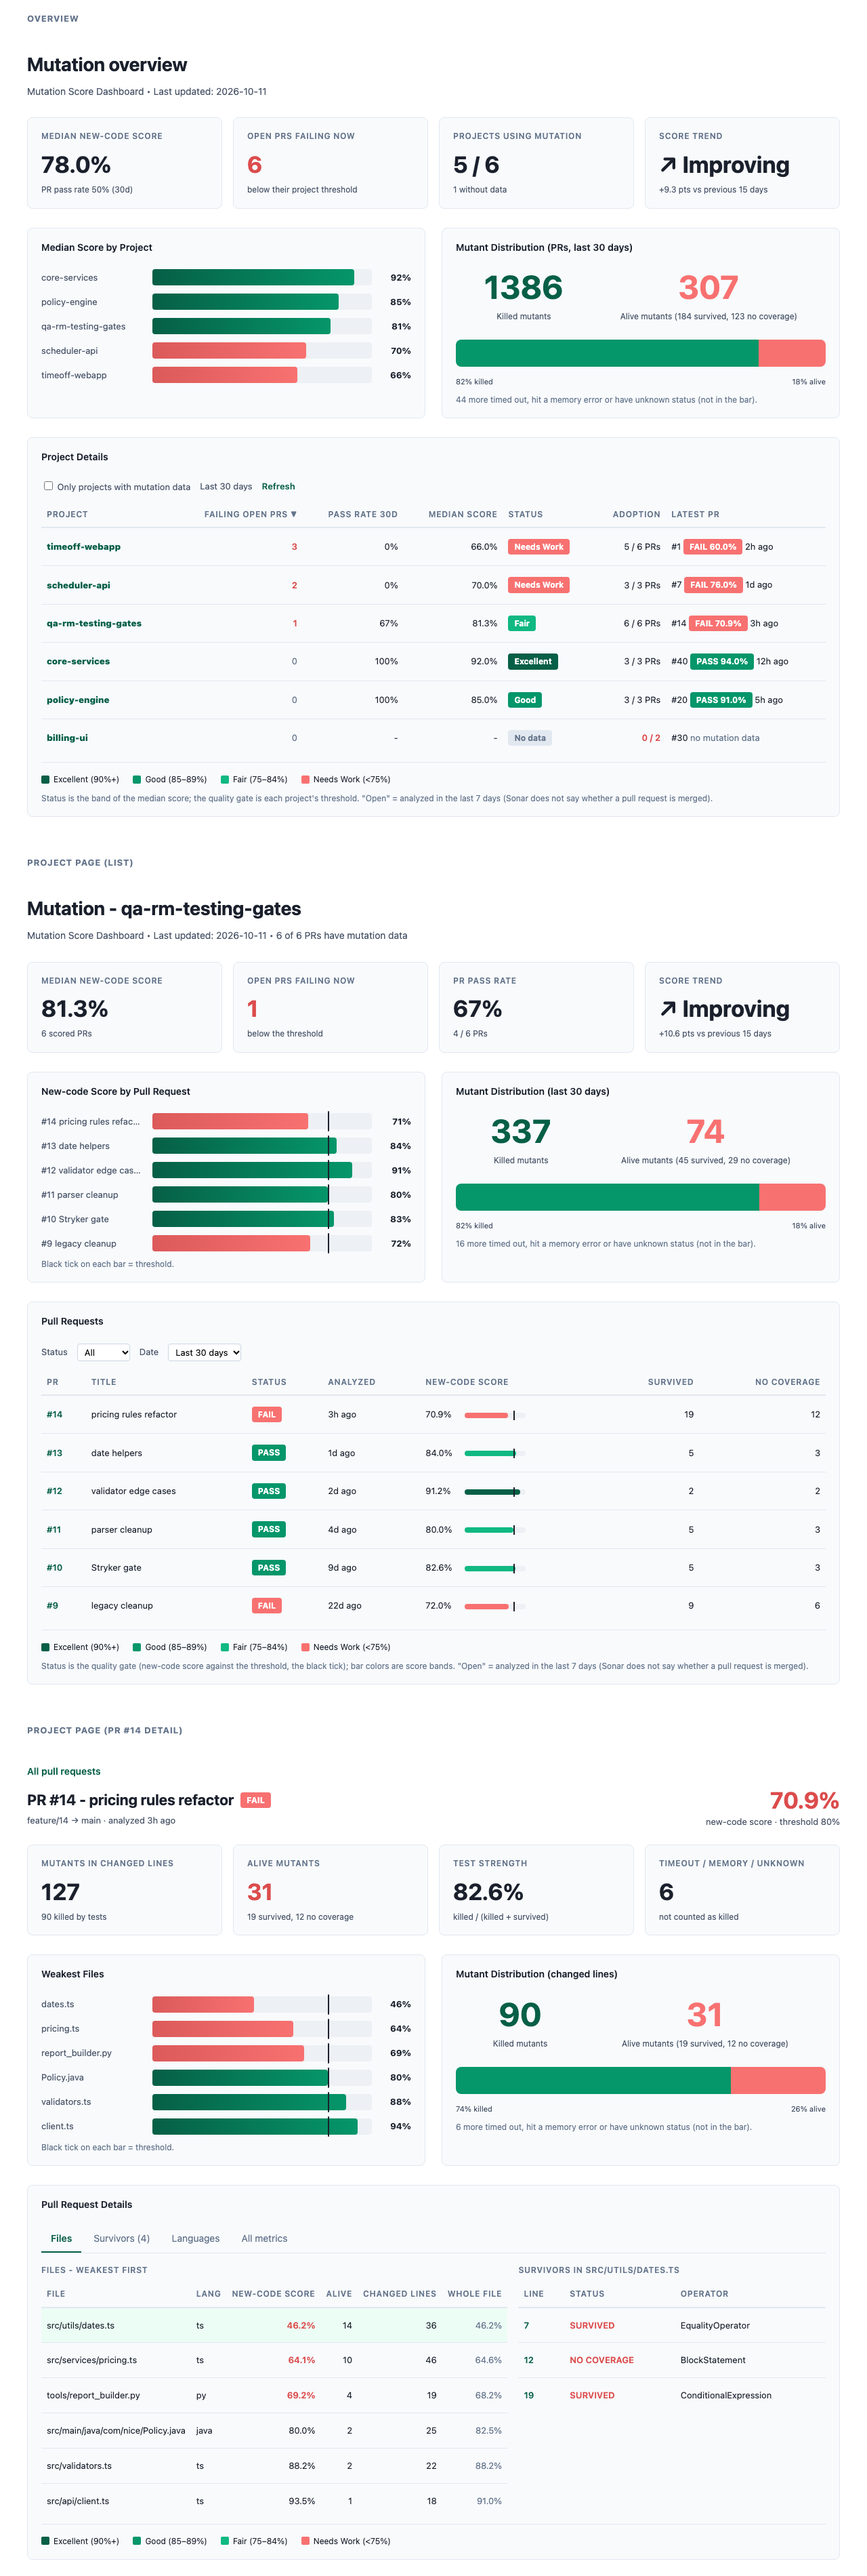
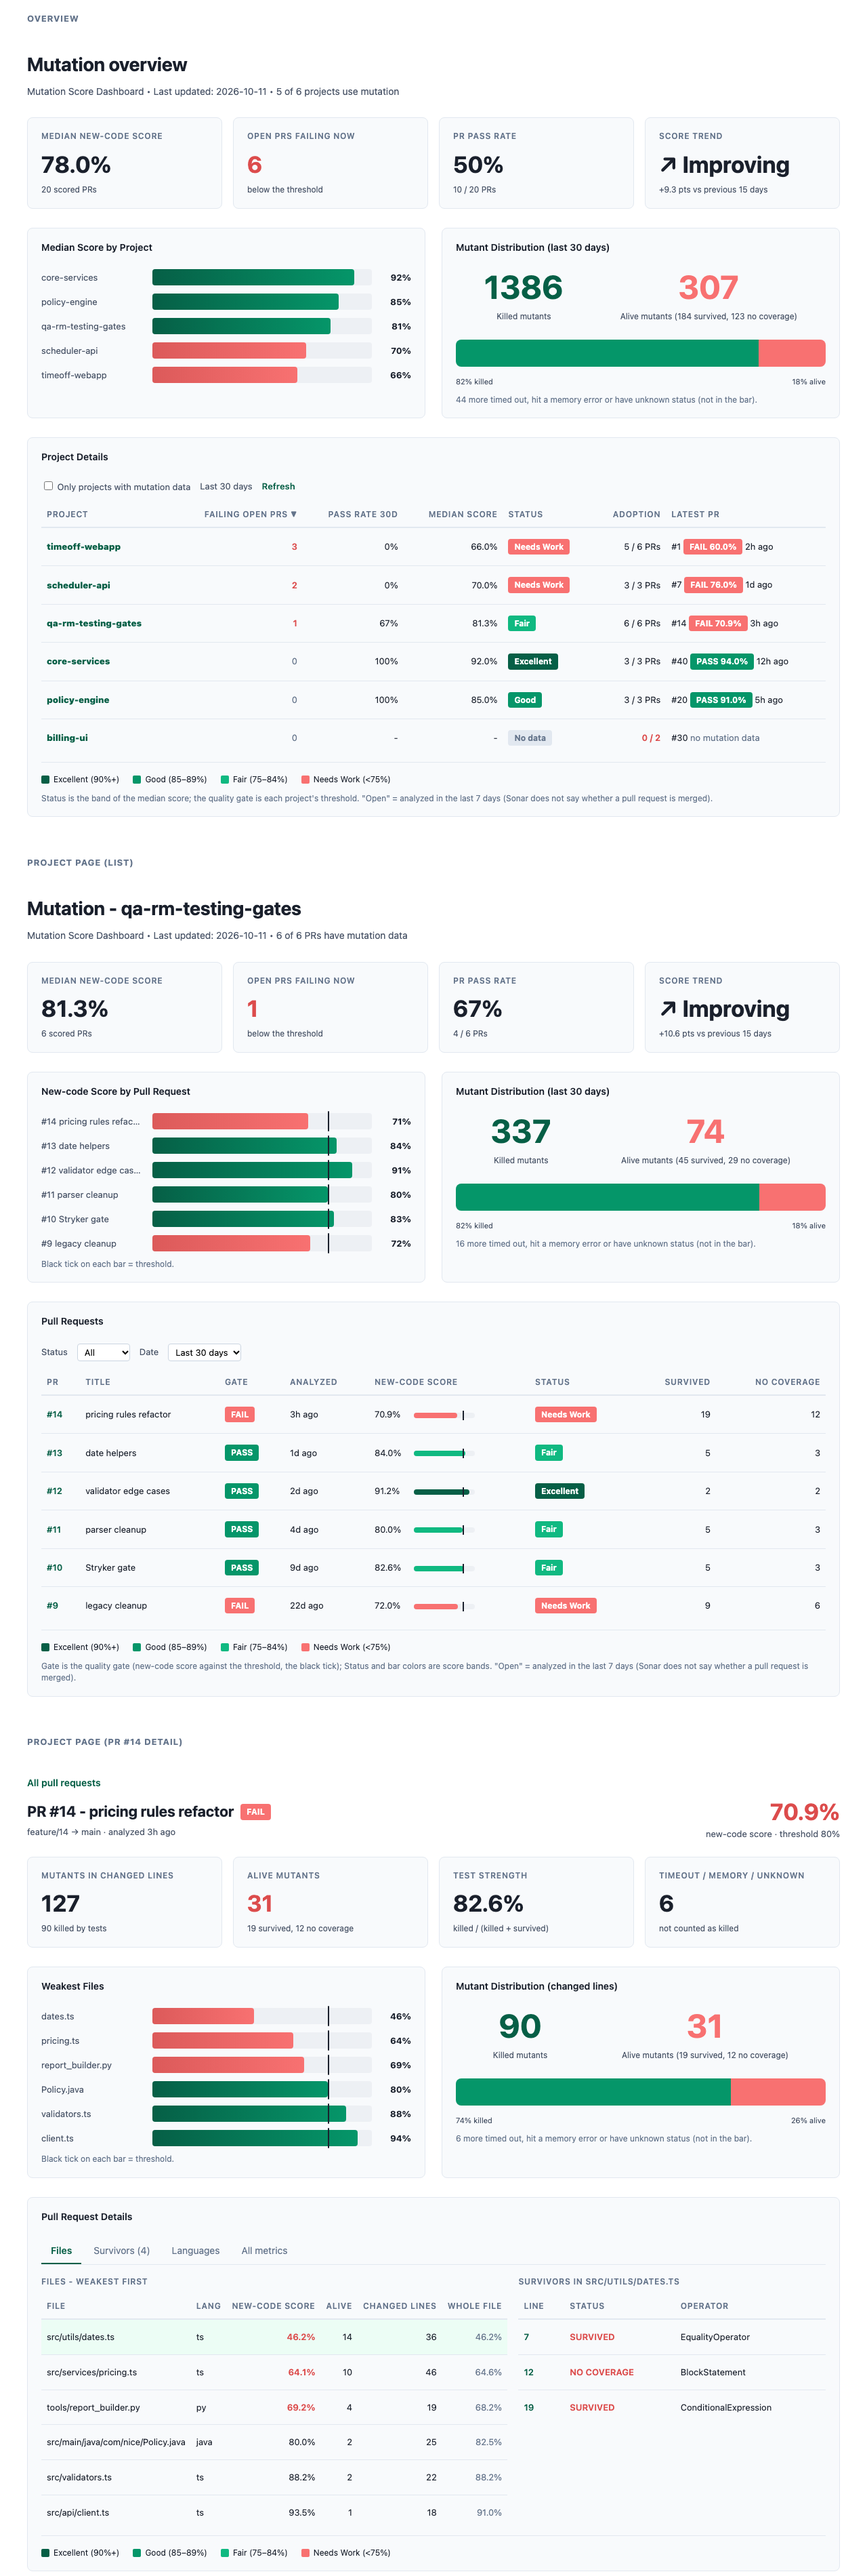
feat(dashboard): overview and project pages share one design
Shared header, summary tiles and distribution title; the PR table gets the same
Status band pill as the project table (gate moves to its own Gate column).
Consistency test fails if the two pages' structure diverges.

diff --git a/frontend/src/ui/prList.ts b/frontend/src/ui/prList.ts
@@ -1,9 +1,9 @@
 import { fmtAge, fmtInt, fmtPct } from '../format';
-import { bandOf, computeTrend, distribution, inWindow, isFailing, isNoPrAnalysis, isOpen, isPassing, lastUpdated, median } from '../model';
+import { bandOf, distribution, inWindow, isFailing, isNoPrAnalysis, isPassing } from '../model';
 import { injectStyles } from '../styles';
 import type { DataSource, PrResult, ProjectRef } from '../types';
 import { clear, h } from './dom';
-import { barChart, card, distributionCard, legend, pageHeader, tile, trendTile } from './widgets';
+import { DISTRIBUTION_TITLE, bandPill, barChart, card, distributionCard, legend, pageHeader, summaryTiles } from './widgets';
 
 /** Bars in the "score by PR" card: the most recent PRs only. */
 const CHART_PRS = 6;
@@ -48,8 +48,7 @@ export async function renderPrList(
     return;
   }
 
-  const updated = lastUpdated(inWin.filter((r) => r.hasData));
-  box.append(...pageHeader(title, `Mutation Score Dashboard${updated ? ` \u2022 Last updated: ${updated}` : ''} \u2022 ${inWin.filter((r) => r.hasData).length} of ${inWin.length} PRs have mutation data`));
+  box.append(...pageHeader(title, inWin, `${inWin.filter((r) => r.hasData).length} of ${inWin.length} PRs have mutation data`));
 
   let status: StatusFilter = 'all';
   let days = 30;
@@ -70,15 +69,16 @@ export async function renderPrList(
 
     clear(tableHolder);
     tableHolder.append(h('table', { class: 'md-table' },
-      h('thead', {}, h('tr', {}, ...(['PR', 'Title', 'Status', 'Analyzed', 'New-code score', 'Survived', 'No coverage'] as const).map((t) =>
+      h('thead', {}, h('tr', {}, ...(['PR', 'Title', 'Gate', 'Analyzed', 'New-code score', 'Status', 'Survived', 'No coverage'] as const).map((t) =>
         h('th', { class: t === 'Survived' || t === 'No coverage' ? 'num' : '' }, t)))),
       h('tbody', {}, ...visible.map((r) => h('tr', { 'data-pr': r.pr.key },
         h('td', {}, h('button', { class: 'md-link', 'data-action': 'open', onclick: () => onOpen(r) }, `#${r.pr.key}`)),
         h('td', {}, r.pr.title),
-        h('td', { 'data-col': 'status' }, statusPill(r)),
+        h('td', { 'data-col': 'gate' }, statusPill(r)),
         h('td', { 'data-col': 'analyzed' }, fmtAge(r.pr.analysisDate, now())),
         h('td', { 'data-col': 'score' }, h('span', { class: 'md-sc' }, fmtPct(r.score)), r.score !== null ? scoreBar(r) : null,
           r.thresholdAssumed && r.hasData ? h('span', { class: 'md-muted' }, ' (threshold assumed)') : null),
+        h('td', { 'data-col': 'status' }, bandPill(r.score)),
         h('td', { 'data-col': 'survived', class: 'num' }, r.hasData ? fmtInt(r.measures.new_mutation_survived) : '-'),
         h('td', { 'data-col': 'noCoverage', class: 'num' }, r.hasData ? fmtInt(r.measures.new_mutation_no_coverage) : '-'))))));
   }
@@ -87,23 +87,16 @@ export async function renderPrList(
     h('select', { 'data-filter': name, onchange: (e: Event) => { on((e.target as HTMLSelectElement).value); paintTable(); } },
       ...options.map(([v, l]) => h('option', { value: v, ...(v === '30' || v === 'all' ? { selected: 'selected' } : {}) }, l)));
 
-  const withData = inWin.filter((r) => r.hasData);
-  const scored = withData.filter((r) => r.score !== null);
-  const passRate = scored.length ? (scored.filter(isPassing).length / scored.length) * 100 : null;
-  const failing = inWin.filter((r) => isFailing(r) && isOpen(r, now())).length;
+  const scored = inWin.filter((r) => r.hasData && r.score !== null);
   const recent = [...scored].sort((a, b) => b.pr.analysisDate.localeCompare(a.pr.analysisDate)).slice(0, CHART_PRS);
 
   box.append(
-    h('div', { class: 'md-kpis' },
-      tile('median', 'Median new-code score', fmtPct(median(scored.map((r) => r.score as number))), `${scored.length} scored PRs`),
-      tile('failingOpen', 'Open PRs failing now', String(failing), 'below the threshold', failing ? 'md-fail' : ''),
-      tile('passRate', 'PR pass rate', fmtPct(passRate, 0), `${scored.filter(isPassing).length} / ${scored.length} PRs`),
-      trendTile(computeTrend(inWin, now()))),
+    summaryTiles(inWin, now()),
     h('div', { class: 'md-cards' },
       card('New-code Score by Pull Request', 'scores',
         barChart(recent.map((r) => ({ key: r.pr.key, label: `#${r.pr.key} ${r.pr.title}`, pct: r.score as number, tick: r.threshold })), 'No scored pull requests.'),
         h('p', { class: 'md-note2' }, 'Black tick on each bar = threshold.')),
-      distributionCard('Mutant Distribution (last 30 days)', distribution(inWin))),
+      distributionCard(DISTRIBUTION_TITLE, distribution(inWin))),
     card('Pull Requests', 'details',
       h('div', { class: 'md-filters' }, 'Status ',
         select('status', [['all', 'All'], ['failing', 'Failing'], ['passing', 'Passing'], ['nodata', 'No data']], (v) => { status = v as StatusFilter; }),
@@ -111,6 +104,6 @@ export async function renderPrList(
         select('days', [['7', 'Last 7 days'], ['14', 'Last 14 days'], ['30', 'Last 30 days']], (v) => { days = Number(v); })),
       tableHolder,
       legend(),
-      h('p', { class: 'md-note2' }, 'Status is the quality gate (new-code score against the threshold, the black tick); bar colors are score bands. "Open" = analyzed in the last 7 days (Sonar does not say whether a pull request is merged).')));
+      h('p', { class: 'md-note2' }, 'Gate is the quality gate (new-code score against the threshold, the black tick); Status and bar colors are score bands. "Open" = analyzed in the last 7 days (Sonar does not say whether a pull request is merged).')));
   paintTable();
 }

diff --git a/frontend/src/ui/overview.ts b/frontend/src/ui/overview.ts
@@ -1,12 +1,12 @@
 import { fmtAge, fmtPct, projectPageUrl } from '../format';
 import {
-  computeTrend, distribution, inWindow, isFailing, isNoPrAnalysis, lastUpdated, sortProjects, summarizeOverview, summarizeProject,
+  distribution, inWindow, isFailing, isNoPrAnalysis, sortProjects, summarizeOverview, summarizeProject,
   type ProjectSummary, type SortDir, type SortKey,
 } from '../model';
 import { injectStyles } from '../styles';
 import type { DataSource, PrResult, ProjectRef, ProjectResult } from '../types';
 import { clear, h } from './dom';
-import { bandPill, barChart, card, distributionCard, legend, pageHeader, tile, trendTile } from './widgets';
+import { DISTRIBUTION_TITLE, bandPill, barChart, card, distributionCard, legend, pageHeader, summaryTiles } from './widgets';
 
 const TITLE = 'Mutation overview';
 
@@ -92,7 +92,6 @@ export function renderOverview(root: HTMLElement, data: DataSource, now: () => D
     if (onlyWithData) summaries = summaries.filter((s) => s.withData > 0 || s.error !== null);
     summaries = sortProjects(summaries, sortKey, sortDir);
 
-    const updated = lastUpdated(windowPrs.filter((p) => p.hasData));
     const scoreBars = all
       .filter((s) => s.medianScore !== null)
       .sort((a, b) => (b.medianScore as number) - (a.medianScore as number) || a.name.localeCompare(b.name))
@@ -111,15 +110,11 @@ export function renderOverview(root: HTMLElement, data: DataSource, now: () => D
 
     clear(body);
     body.append(
-      ...pageHeader(TITLE, `Mutation Score Dashboard${updated ? ` \u2022 Last updated: ${updated}` : ''}`),
-      h('div', { class: 'md-kpis' },
-        tile('median', 'Median new-code score', fmtPct(o.medianScore), `PR pass rate ${fmtPct(o.passRate, 0)} (30d)`),
-        tile('failingOpen', 'Open PRs failing now', String(o.failingOpen), 'below their project threshold', o.failingOpen ? 'md-fail' : ''),
-        tile('projects', 'Projects using mutation', `${o.projectsWithData} / ${o.projectsTotal}`, `${o.projectsTotal - o.projectsWithData} without data`),
-        trendTile(computeTrend(windowPrs, now()))),
+      ...pageHeader(TITLE, windowPrs, `${o.projectsWithData} of ${o.projectsTotal} projects use mutation`),
+      summaryTiles(windowPrs, now()),
       h('div', { class: 'md-cards' },
         card('Median Score by Project', 'scores', barChart(scoreBars, loading ? 'Loading...' : 'No project has a score yet.')),
-        distributionCard('Mutant Distribution (PRs, last 30 days)', distribution(windowPrs))),
+        distributionCard(DISTRIBUTION_TITLE, distribution(windowPrs))),
       card('Project Details', 'details',
         h('div', { class: 'md-filters' },
           h('label', {}, h('input', { type: 'checkbox', 'data-filter': 'withData', ...(onlyWithData ? { checked: 'checked' } : {}), onclick: (e: Event) => {

diff --git a/frontend/src/ui/widgets.ts b/frontend/src/ui/widgets.ts
@@ -1,10 +1,16 @@
 import { fmtInt, fmtPct } from '../format';
-import { BANDS, bandLabel, bandOf, type Band, type Distribution, type Trend } from '../model';
+import { BANDS, bandLabel, bandOf, computeTrend, isFailing, isOpen, isPassing, lastUpdated, median, type Band, type Distribution, type Trend } from '../model';
+import type { PrResult } from '../types';
 import { h, type Child } from './dom';
 
-export function pageHeader(title: string, subtitle: string): HTMLElement[] {
-  return [h('h1', {}, title), h('p', { class: 'md-sub' }, subtitle)];
+/** Title and subtitle, the same on every page. `facts` are extra subtitle parts, e.g. "5 of 6 projects use mutation". */
+export function pageHeader(title: string, prs: PrResult[], ...facts: string[]): HTMLElement[] {
+  const updated = lastUpdated(prs.filter((r) => r.hasData));
+  const parts = ['Mutation Score Dashboard', ...(updated ? [`Last updated: ${updated}`] : []), ...facts];
+  return [h('h1', {}, title), h('p', { class: 'md-sub' }, parts.join(' \u2022 '))];
 }
+
+export const DISTRIBUTION_TITLE = 'Mutant Distribution (last 30 days)';
 
 export function tile(name: string, label: string, value: string, sub: string, valueClass = ''): HTMLElement {
   return h('div', { class: 'md-kpi', 'data-tile': name },
@@ -24,6 +30,18 @@ export function trendTile(t: Trend): HTMLElement {
     ? 'needs scored PRs in both halves of the window'
     : `${t.delta >= 0 ? '+' : '−'}${Math.abs(t.delta).toFixed(1)} pts vs previous 15 days`;
   return tile('trend', 'Score trend', `${v.arrow} ${v.text}`, sub, t.direction === 'declining' ? 'md-fail' : '');
+}
+
+/** The four tiles on the overview and on every project page. `prs` are the PRs in the 30 day window. */
+export function summaryTiles(prs: PrResult[], now: Date): HTMLElement {
+  const scored = prs.filter((r) => r.hasData && r.score !== null);
+  const passing = scored.filter(isPassing).length;
+  const failing = prs.filter((r) => isFailing(r) && isOpen(r, now)).length;
+  return h('div', { class: 'md-kpis' },
+    tile('median', 'Median new-code score', fmtPct(median(scored.map((r) => r.score as number))), `${scored.length} scored PRs`),
+    tile('failingOpen', 'Open PRs failing now', String(failing), 'below the threshold', failing ? 'md-fail' : ''),
+    tile('passRate', 'PR pass rate', fmtPct(scored.length ? (passing / scored.length) * 100 : null, 0), `${passing} / ${scored.length} PRs`),
+    trendTile(computeTrend(prs, now)));
 }
 
 export function card(title: string, name: string, ...children: Child[]): HTMLElement {

diff --git a/frontend/test/consistency.test.ts b/frontend/test/consistency.test.ts
@@ -1,0 +1,42 @@
+import { beforeEach, describe, expect, it, vi } from 'vitest';
+import { renderOverview } from '../src/ui/overview';
+import { renderPrList } from '../src/ui/prList';
+import { FakeData, NOW, makePr, project } from './fixtures';
+
+const data = () => new FakeData([project('p', [
+  makePr('1', { score: 70, hours: 3 }), makePr('2', { score: 90, hours: 30 }), makePr('3', { score: 80, hours: 24 * 20 }),
+])]);
+
+const shape = (root: HTMLElement) => ({
+  heading: root.querySelector('h1')?.tagName,
+  subtitle: root.querySelector('.md-sub')?.textContent?.startsWith('Mutation Score Dashboard • Last updated: '),
+  tiles: [...root.querySelectorAll('[data-tile]')].map((t) => t.getAttribute('data-tile')),
+  cards: [...root.querySelectorAll('[data-card]')].map((c) => c.getAttribute('data-card')),
+  titles: [...root.querySelectorAll('[data-card] h2')].map((h) => h.textContent).filter((t) => t?.startsWith('Mutant')),
+  legend: root.querySelectorAll('.md-legend span').length,
+  statusBand: root.querySelector('td[data-col="status"] [data-band]') !== null,
+});
+
+describe('overview and project page share one design', () => {
+  let a: HTMLElement;
+  let b: HTMLElement;
+  beforeEach(async () => {
+    document.body.innerHTML = '<div id="a"></div><div id="b"></div>';
+    a = document.getElementById('a')!;
+    b = document.getElementById('b')!;
+    renderOverview(a, data(), () => NOW);
+    await vi.waitFor(() => expect(a.querySelector('[data-loading="true"]')).toBeNull());
+    await renderPrList(b, data(), { key: 'p', name: 'p' }, () => {}, () => NOW);
+  });
+
+  it('same header, tiles, cards, distribution title, legend and status bands', () => {
+    expect(shape(a)).toEqual(shape(b));
+    expect(shape(a).tiles).toEqual(['median', 'failingOpen', 'passRate', 'trend']);
+    expect(shape(a).cards).toEqual(['scores', 'distribution', 'details']);
+  });
+
+  it('same tile values for the same PRs', () => {
+    const values = (r: HTMLElement) => [...r.querySelectorAll('[data-tile]')].map((t) => t.textContent);
+    expect(values(a)).toEqual(values(b));
+  });
+});

diff --git a/frontend/test/prList.test.ts b/frontend/test/prList.test.ts
@@ -47,18 +47,18 @@ describe('PR list', () => {
 
   it('shows status, score and counts; dashes for a PR without data', async () => {
     await renderPrList(root, data(), { key: 'p', name: 'p' }, () => {}, () => NOW);
-    expect(cell('14', 'status')).toBe('FAIL');
+    expect(cell('14', 'gate')).toBe('FAIL');
     expect(cell('14', 'score')).toContain('70.9%');
     expect(cell('14', 'survived')).toBe('19');
-    expect(cell('13', 'status')).toBe('PASS');
-    expect(cell('12', 'status')).toBe('NO DATA');
+    expect(cell('13', 'gate')).toBe('PASS');
+    expect(cell('12', 'gate')).toBe('NO DATA');
     expect(cell('12', 'score')).toBe('-');
     expect(cell('12', 'survived')).toBe('-');
   });
 
   it('a score equal to the threshold shows PASS', async () => {
     await renderPrList(root, data(), { key: 'p', name: 'p' }, () => {}, () => NOW);
-    expect(cell('10', 'status')).toBe('PASS');
+    expect(cell('10', 'gate')).toBe('PASS');
   });
 
   it('status filter', async () => {
@@ -100,7 +100,7 @@ describe('PR list', () => {
   it('a PR with data but no score shows NO SCORE and stays out of the pass rate', async () => {
     const d = new FakeData([project('p', [makePr('1', { score: 90 }), makePr('2', { score: null })])]);
     await renderPrList(root, d, { key: 'p', name: 'p' }, () => {}, () => NOW);
-    expect(cell('2', 'status')).toBe('NO SCORE');
+    expect(cell('2', 'gate')).toBe('NO SCORE');
     expect(tile('passRate')).toBe('100%');
   });
 

diff --git a/frontend/test/overview.test.ts b/frontend/test/overview.test.ts
@@ -74,7 +74,7 @@ describe('overview', () => {
     await flush();
     expect(rows()).toEqual(['timeoff', 'policy', 'billing']);
     expect(tile('failingOpen')).toBe('2');
-    expect(tile('projects')).toBe('2 / 3');
+    expect(root.querySelector('.md-sub')?.textContent).toContain('2 of 3 projects use mutation');
   });
 
   it('projects without data are visible by default so the adoption gap shows; the filter hides them', async () => {
@@ -127,7 +127,7 @@ describe('overview', () => {
     expect(root.querySelector('[data-card="distribution"] [data-part="alive"]')?.textContent).toBe('24');
     expect(root.querySelector('[data-tile="trend"]')).not.toBeNull();
     expect(root.querySelector('.md-legend')?.textContent).toContain('Needs Work (<75%)');
-    expect(root.querySelector('.md-sub')?.textContent).toBe('Mutation Score Dashboard \u2022 Last updated: 2026-10-05');
+    expect(root.querySelector('.md-sub')?.textContent).toBe('Mutation Score Dashboard \u2022 Last updated: 2026-10-05 \u2022 2 of 3 projects use mutation');
   });
 
   it('clicking a sort header re-sorts and toggles direction', async () => {

diff --git a/README.md b/README.md
@@ -68,14 +68,15 @@ Keys are intentionally not compatible with DevCon5. Equivalents:
 Two read-only pages, built into the plugin jar, for the pull-request results the agent uploads. Nothing else in
 Sonar changes: no other metric, gate, rule or plugin is touched.
 
-- **Mutation overview** (top menu **More > Mutation overview**): for managers. Tiles (median new-code score with
-  PR pass rate, open PRs failing now, projects using mutation, score trend), a "Median Score by Project" bar chart,
+- **Mutation overview** (top menu **More > Mutation overview**): for managers. Same four tiles as every project page
+  (median new-code score, open PRs failing now, PR pass rate, score trend; the subtitle says how many projects use
+  mutation), a "Median Score by Project" bar chart,
   a killed / alive "Mutant Distribution" card and a sortable table per project: failing open PRs (default sort),
   pass rate, median score, status band, adoption, latest PR. Projects without mutation data sort last and
   stay visible (the adoption gap); a checkbox hides them.
-- **Mutation** (project menu **More > Mutation**): tiles, a score-by-PR bar chart with threshold marks, a
-  killed / alive distribution card and the PR list for the last 30 days (status, new-code score with
-  a threshold mark, survived, no coverage; filters by status and date). Click a PR, or open the page on a PR,
+- **Mutation** (project menu **More > Mutation**): same layout as the overview: tiles, a score-by-PR bar chart with threshold marks, a
+  killed / alive distribution card and the PR list for the last 30 days (gate PASS/FAIL, new-code score with
+  a threshold mark, status band, survived, no coverage; filters by status and date). Click a PR, or open the page on a PR,
   for the detail: verdict and score against the threshold, counts, a weakest-files chart, a distribution card, and tabs Files (weakest first, with the
   survivors of the selected file and links into Sonar's code view), Survivors, Languages, All metrics.
   The `main` branch is not summarized; opened on another branch the page shows a note and the PR list.
